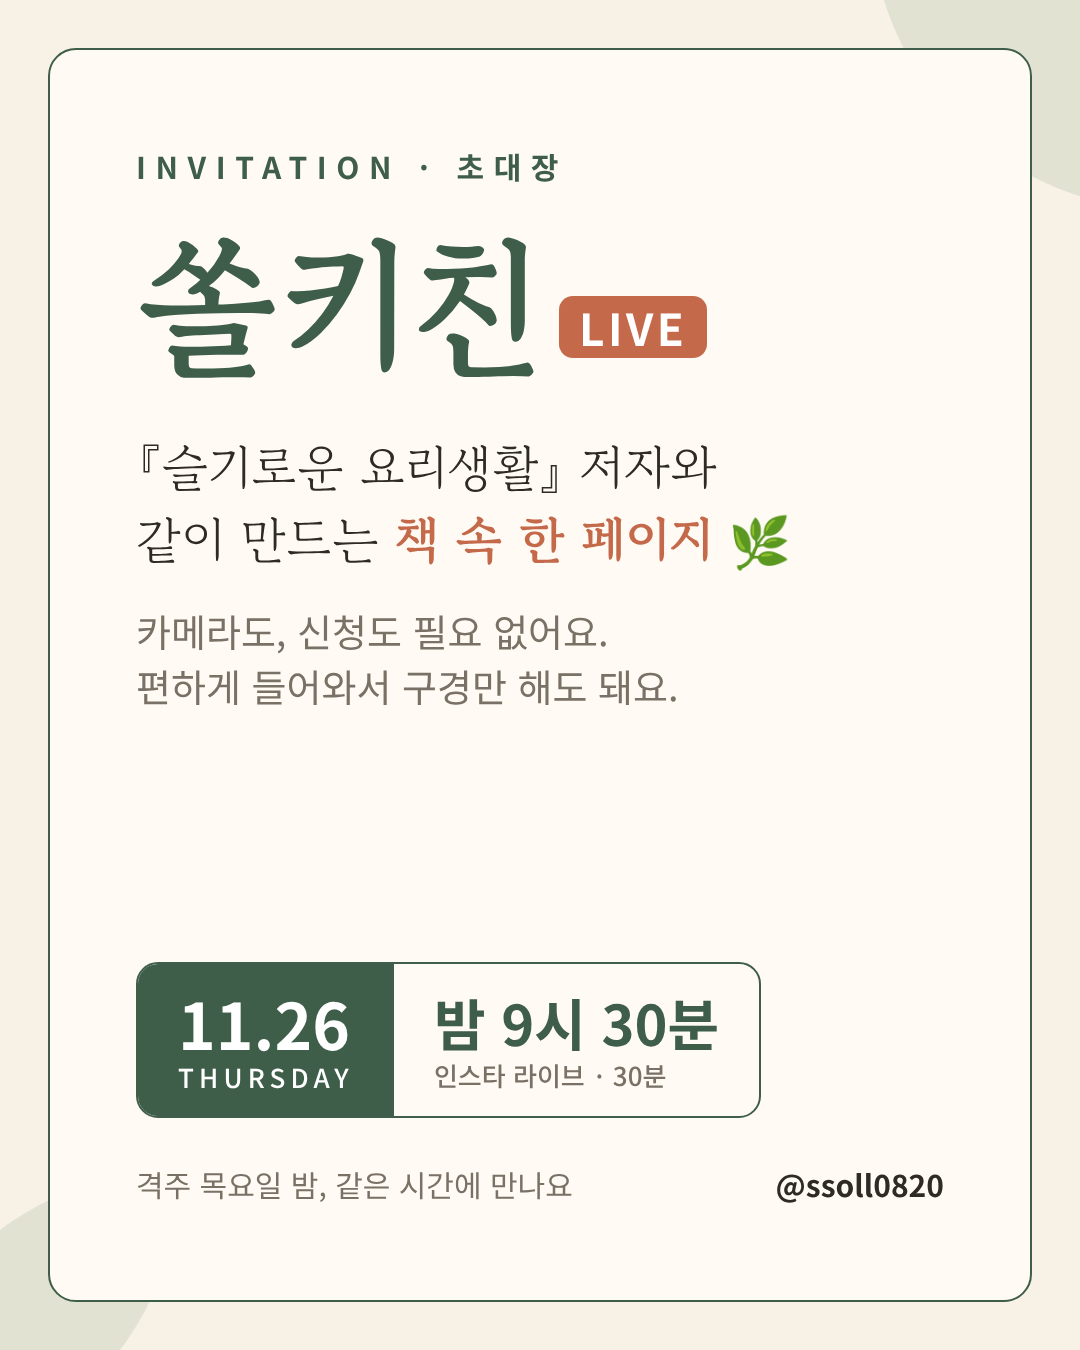
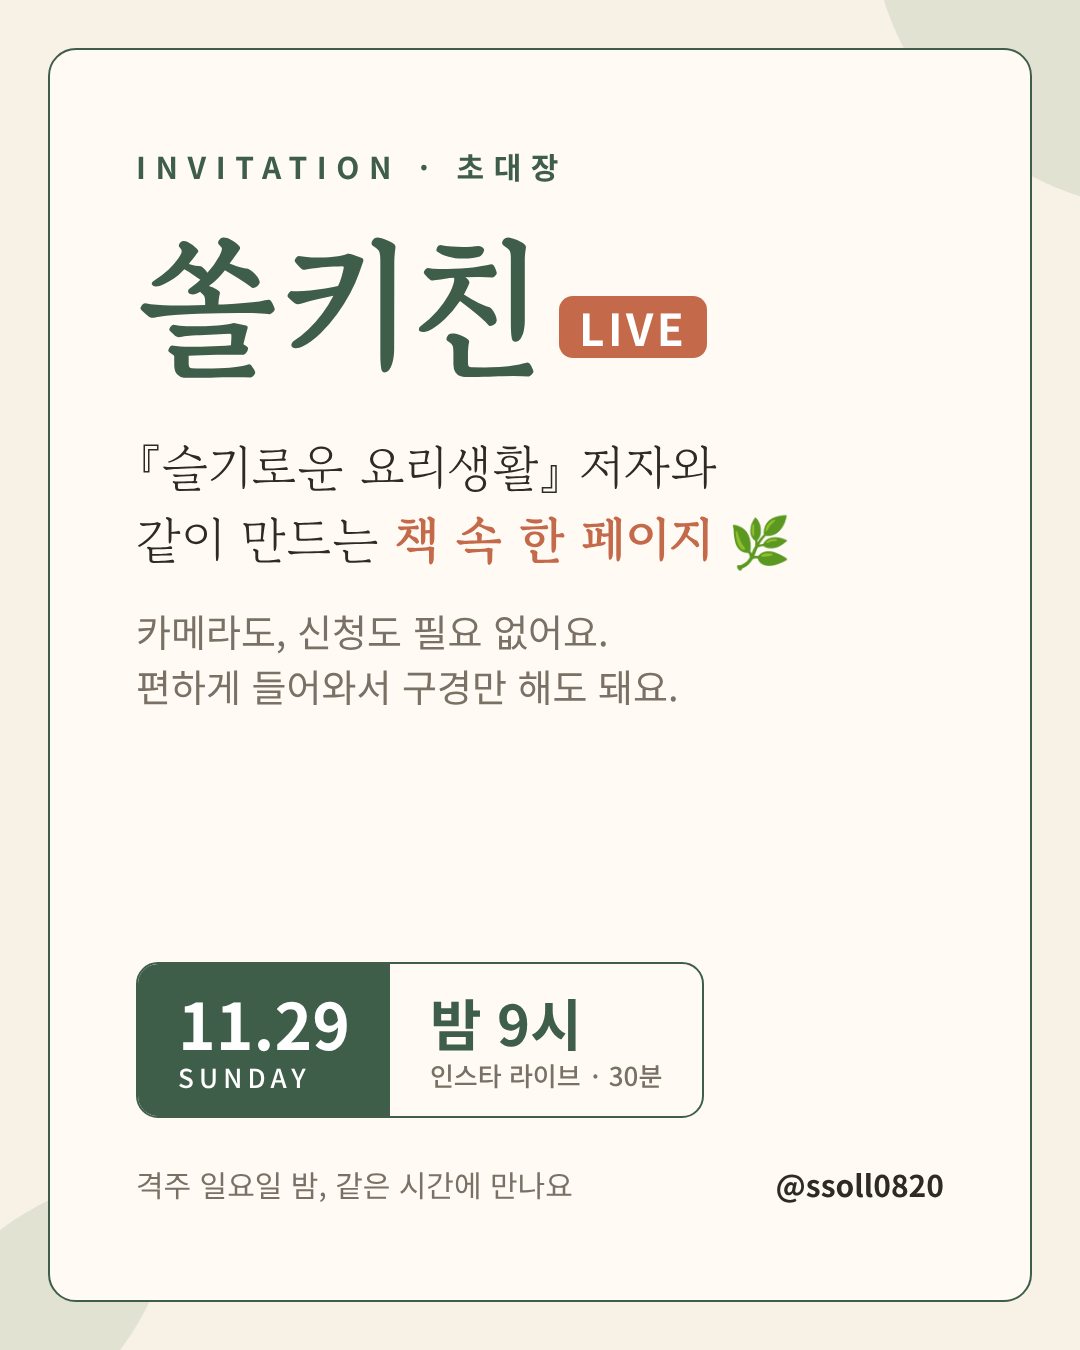
Move Ssol Kitchen LIVE to Sunday night in invitation
Claude-Session: https://claude.ai/code/session_01Ethqw4sohGTX5mGw2k3kXS

Changed region(s): [[0.3972, 0.7156, 0.6722, 0.8089], [0.1528, 0.7156, 0.3667, 0.8089], [0.1833, 0.8711, 0.2139, 0.9022]]

diff --git a/reports/invite/invite.html b/reports/invite/invite.html
@@ -41,10 +41,10 @@ h2{font-family:'Gowun Batang',serif;font-size:72px;color:var(--green);line-heigh
     <p class="sub">『슬기로운 요리생활』 저자와<br>같이 만드는 <b>책 속 한 페이지</b> 🌿</p>
     <p class="sub" style="font-size:38px;margin-top:28px;color:var(--muted);font-family:'Noto Sans KR'">카메라도, 신청도 필요 없어요.<br>편하게 들어와서 구경만 해도 돼요.</p>
     <div class="date">
-      <div class="d">11.26<small>THURSDAY</small></div>
-      <div class="t">밤 9시 30분<small>인스타 라이브 · 30분</small></div>
+      <div class="d">11.29<small>SUNDAY</small></div>
+      <div class="t">밤 9시<small>인스타 라이브 · 30분</small></div>
     </div>
-    <div class="foot"><span>격주 목요일 밤, 같은 시간에 만나요</span><b>@ssoll0820</b></div>
+    <div class="foot"><span>격주 일요일 밤, 같은 시간에 만나요</span><b>@ssoll0820</b></div>
   </div>
 </section>
 
@@ -56,7 +56,7 @@ h2{font-family:'Gowun Batang',serif;font-size:72px;color:var(--green);line-heigh
     <h2 style="margin-top:28px">이렇게 오시면 돼요</h2>
     <div class="steps">
       <div class="step"><div class="num">1</div><p>이 게시물 아래 <b>라이브 예약</b>에서<br>‘알림 받기’ 누르기<small>시작할 때 알려드려요</small></p></div>
-      <div class="step"><div class="num">2</div><p>목요일 밤 9시 30분, 알림 누르고 입장<small>얼굴 안 보여요. 보기만 해도 OK</small></p></div>
+      <div class="step"><div class="num">2</div><p>일요일 밤 9시, 알림 누르고 입장<small>얼굴 안 보여요. 보기만 해도 OK</small></p></div>
       <div class="step"><div class="num">3</div><p>댓글로 “안녕하세요” 한마디<small>이름 불러드릴게요 😊</small></p></div>
     </div>
     <div class="box">📖 책이 있으면 펼쳐두고 같이 따라 해요<br>🍲 재료는 라이브 전날 스토리에 올려드려요<br>🎁 <b>댓글 남긴 분 중 한 분께 책 선물</b></div>
